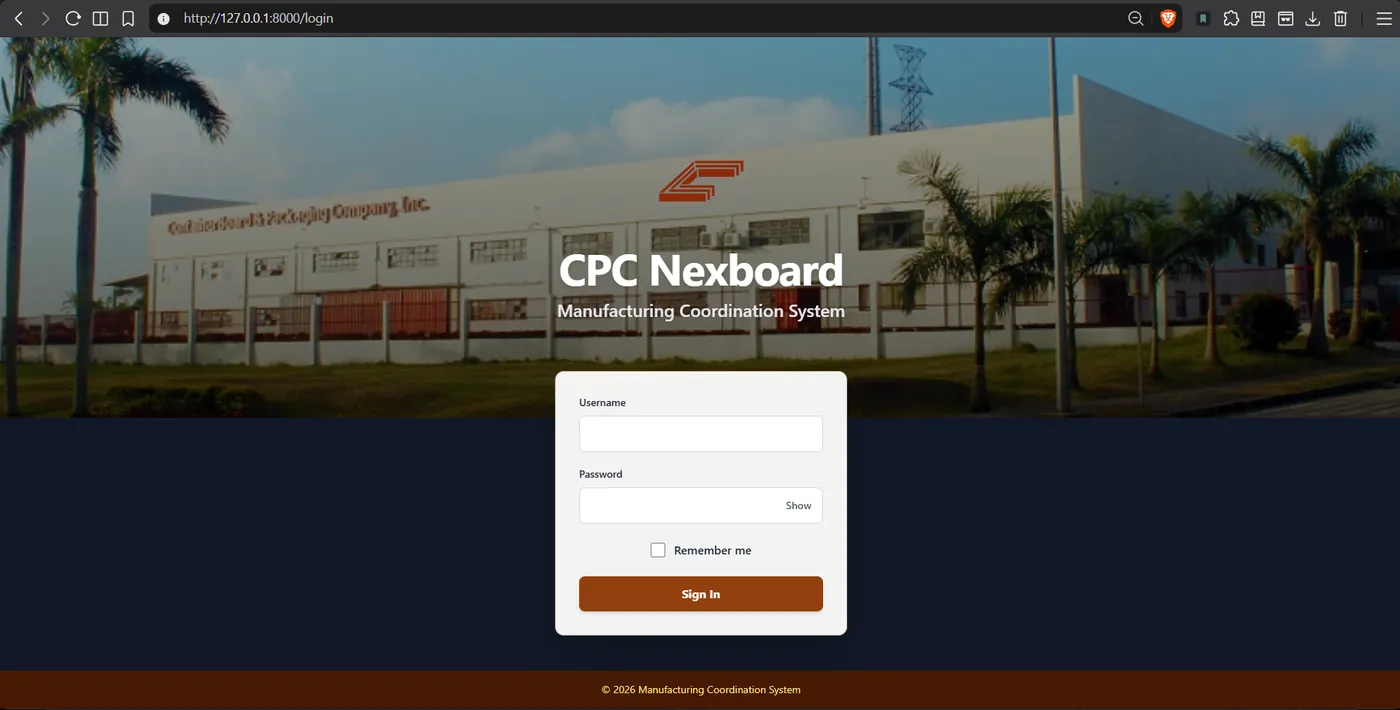
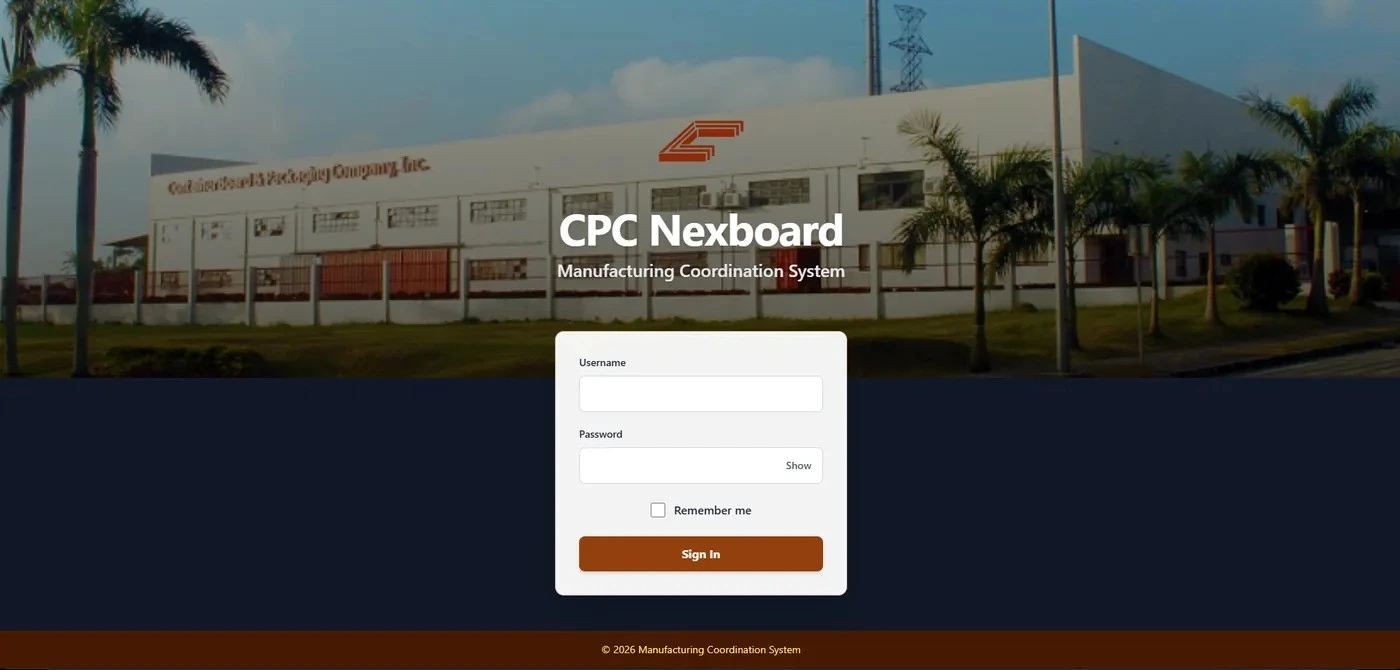
Added a photo

diff --git a/css/styles.css b/css/styles.css
@@ -413,7 +413,27 @@ svg.skill__icon--line,
 
 /* About */
 .about {
-  max-width: 42rem;
+  display: grid;
+  grid-template-columns: minmax(0, 1.15fr) minmax(0, 0.85fr);
+  grid-template-areas: "text portrait";
+  align-items: center;
+  gap: clamp(2rem, 6vw, 5rem);
+}
+.about__portrait {
+  grid-area: portrait;
+  height: clamp(22rem, 38vw, 28rem);
+  margin: 0;
+  overflow: hidden;
+  border: 1px solid var(--line);
+  border-radius: var(--radius-lg);
+  background: radial-gradient(circle at 50% 35%, color-mix(in srgb, var(--accent) 18%, var(--surface)), var(--bg-tint) 72%);
+}
+.about__text { grid-area: text; }
+.about__portrait img {
+  width: 100%;
+  height: 100%;
+  object-fit: contain;
+  object-position: center bottom;
 }
 .about__text p + p { margin-top: 1rem; }
 
@@ -561,6 +581,13 @@ svg.skill__icon--line,
 }
 
 @media (max-width: 40rem) {
+  .about {
+    grid-template-columns: 1fr;
+    grid-template-areas: "portrait" "text";
+    gap: 2rem;
+  }
+  .about__portrait { height: min(72vw, 22rem); }
+
   .topbar__inner {
     grid-template-columns: auto 1fr;
     gap: 1rem;

diff --git a/index.html b/index.html
@@ -119,6 +119,9 @@
     <!-- About -->
     <section class="section" id="about" aria-labelledby="about-title">
       <div class="wrap about">
+        <figure class="about__portrait">
+          <img src="assets/profile/profile-background.png" alt="Portrait of Andrei Carillo" width="433" height="577">
+        </figure>
         <div class="about__text">
           <h2 id="about-title">About me</h2>
           <p>I'm an Information Technology student at National University – Laguna, based in Cabuyao, Laguna. I build full-stack web systems with a strong focus on the backend: database design, business rules, role-based access, and features that stay correct under real use.</p>
